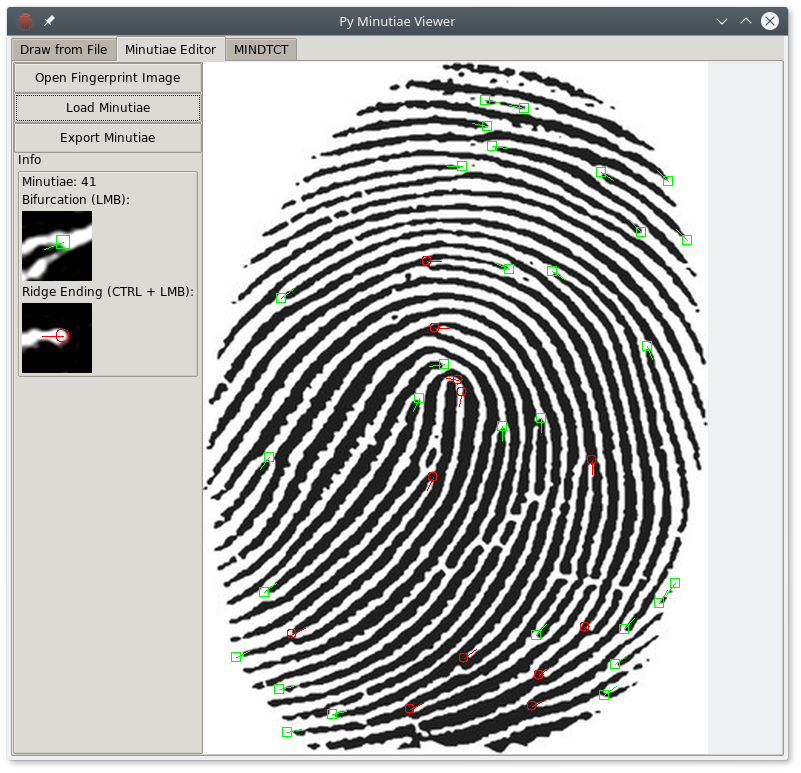
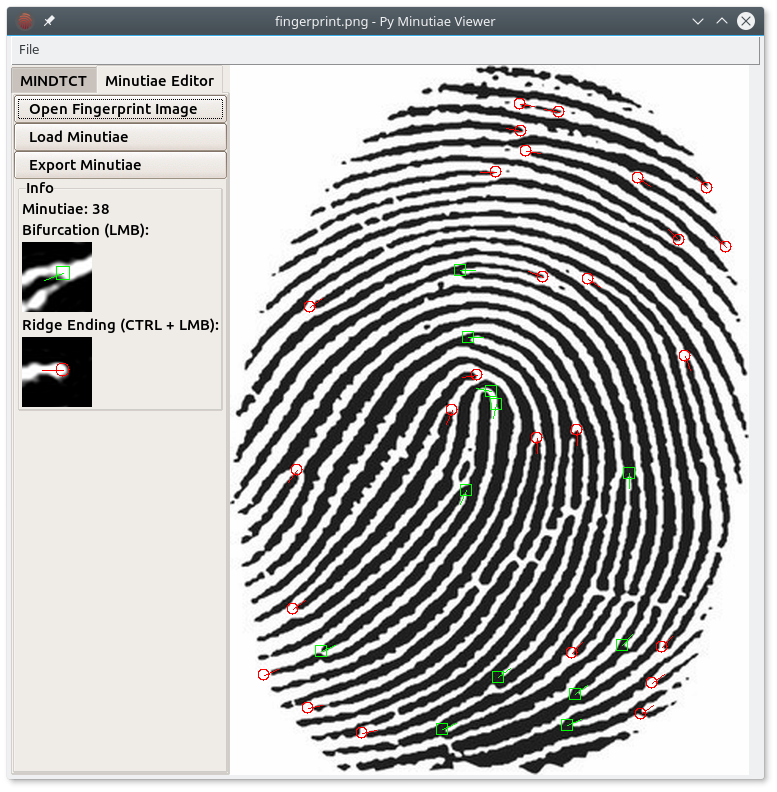
Updated screenshots in README

diff --git a/README.md b/README.md
@@ -12,6 +12,10 @@ There are two modes:
 
 ## Screenshots
 
+![Screenshot of Editor Mode](.readme/Screenshot_mindtct.png)
+
+The above screenshot shows the application in `extraction mode`. Various settings can be set to extract the minutiae using `mindtct`.
+
 ![Screenshot of Editor Mode](.readme/Screenshot_editor.png)
 
 The above screenshot shows the application in `editor mode`, the minutiae have been detected with an external minutiae detection algorithm. Now false positives are being removed and false negatives are being labeled.
